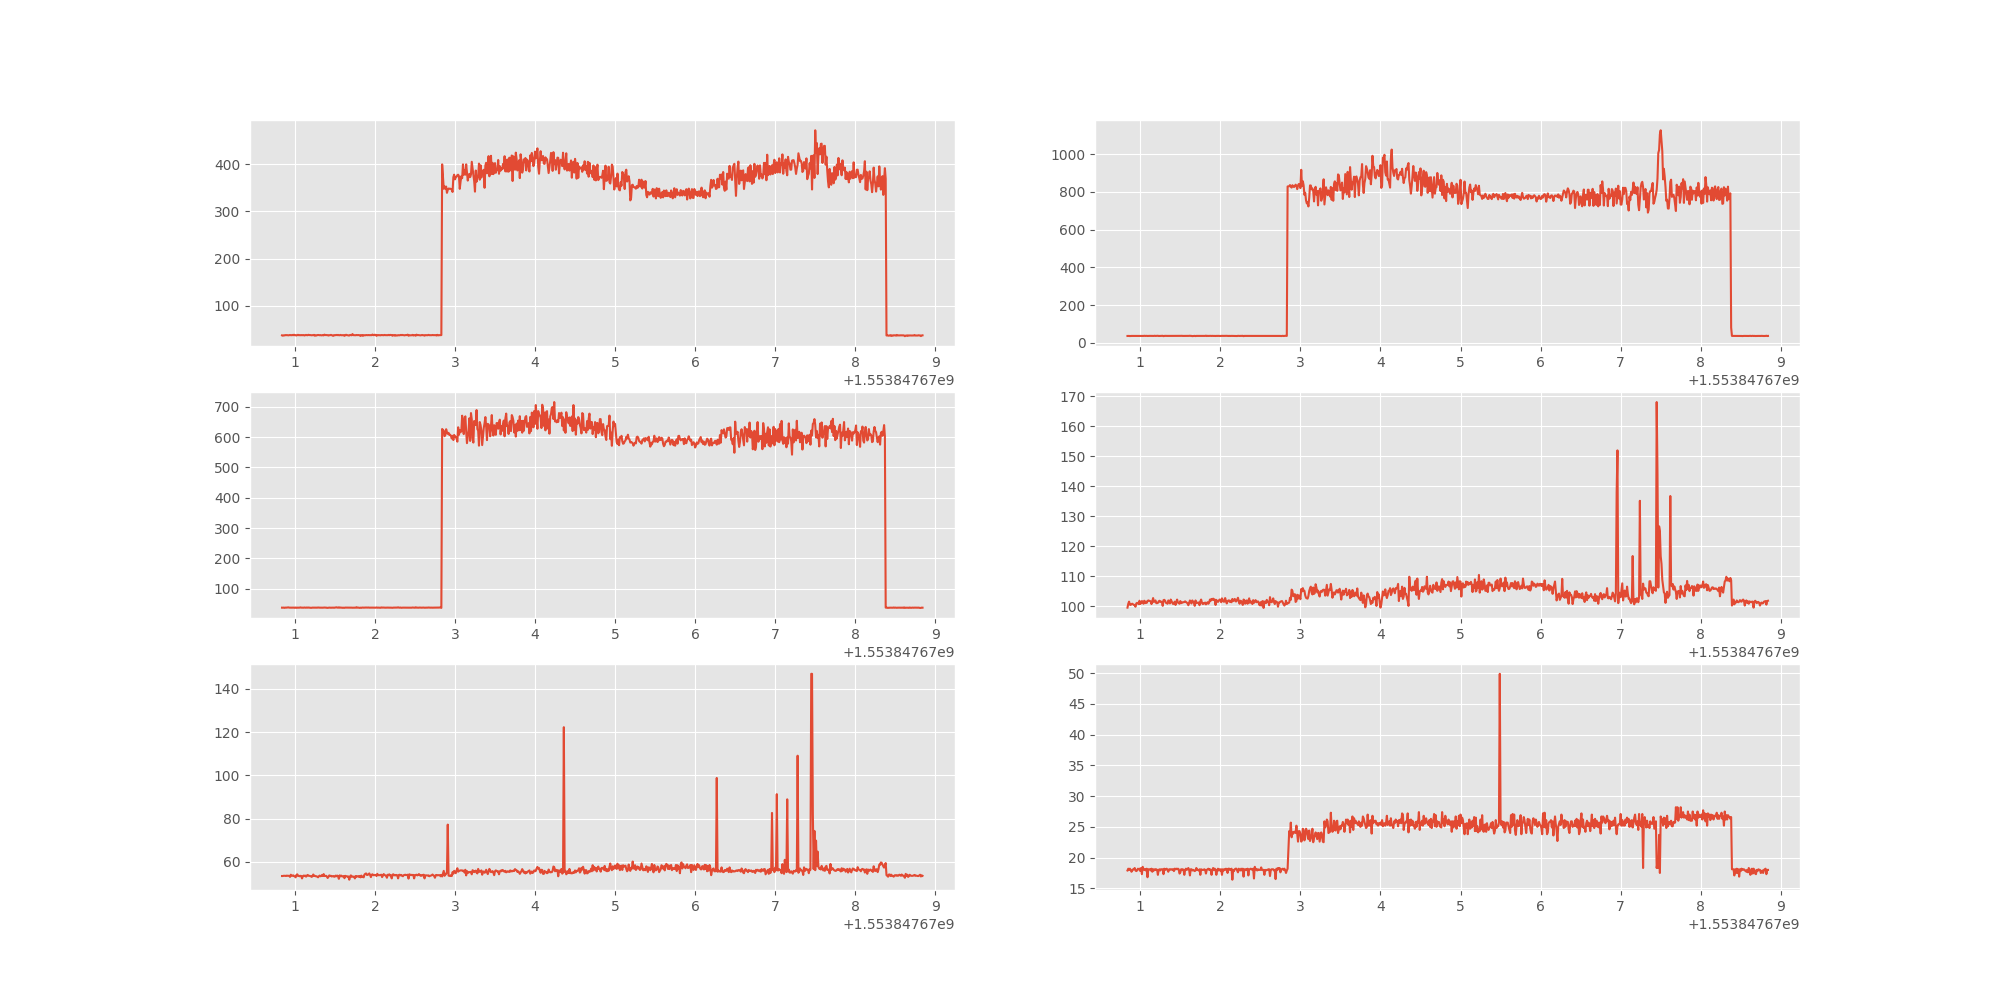
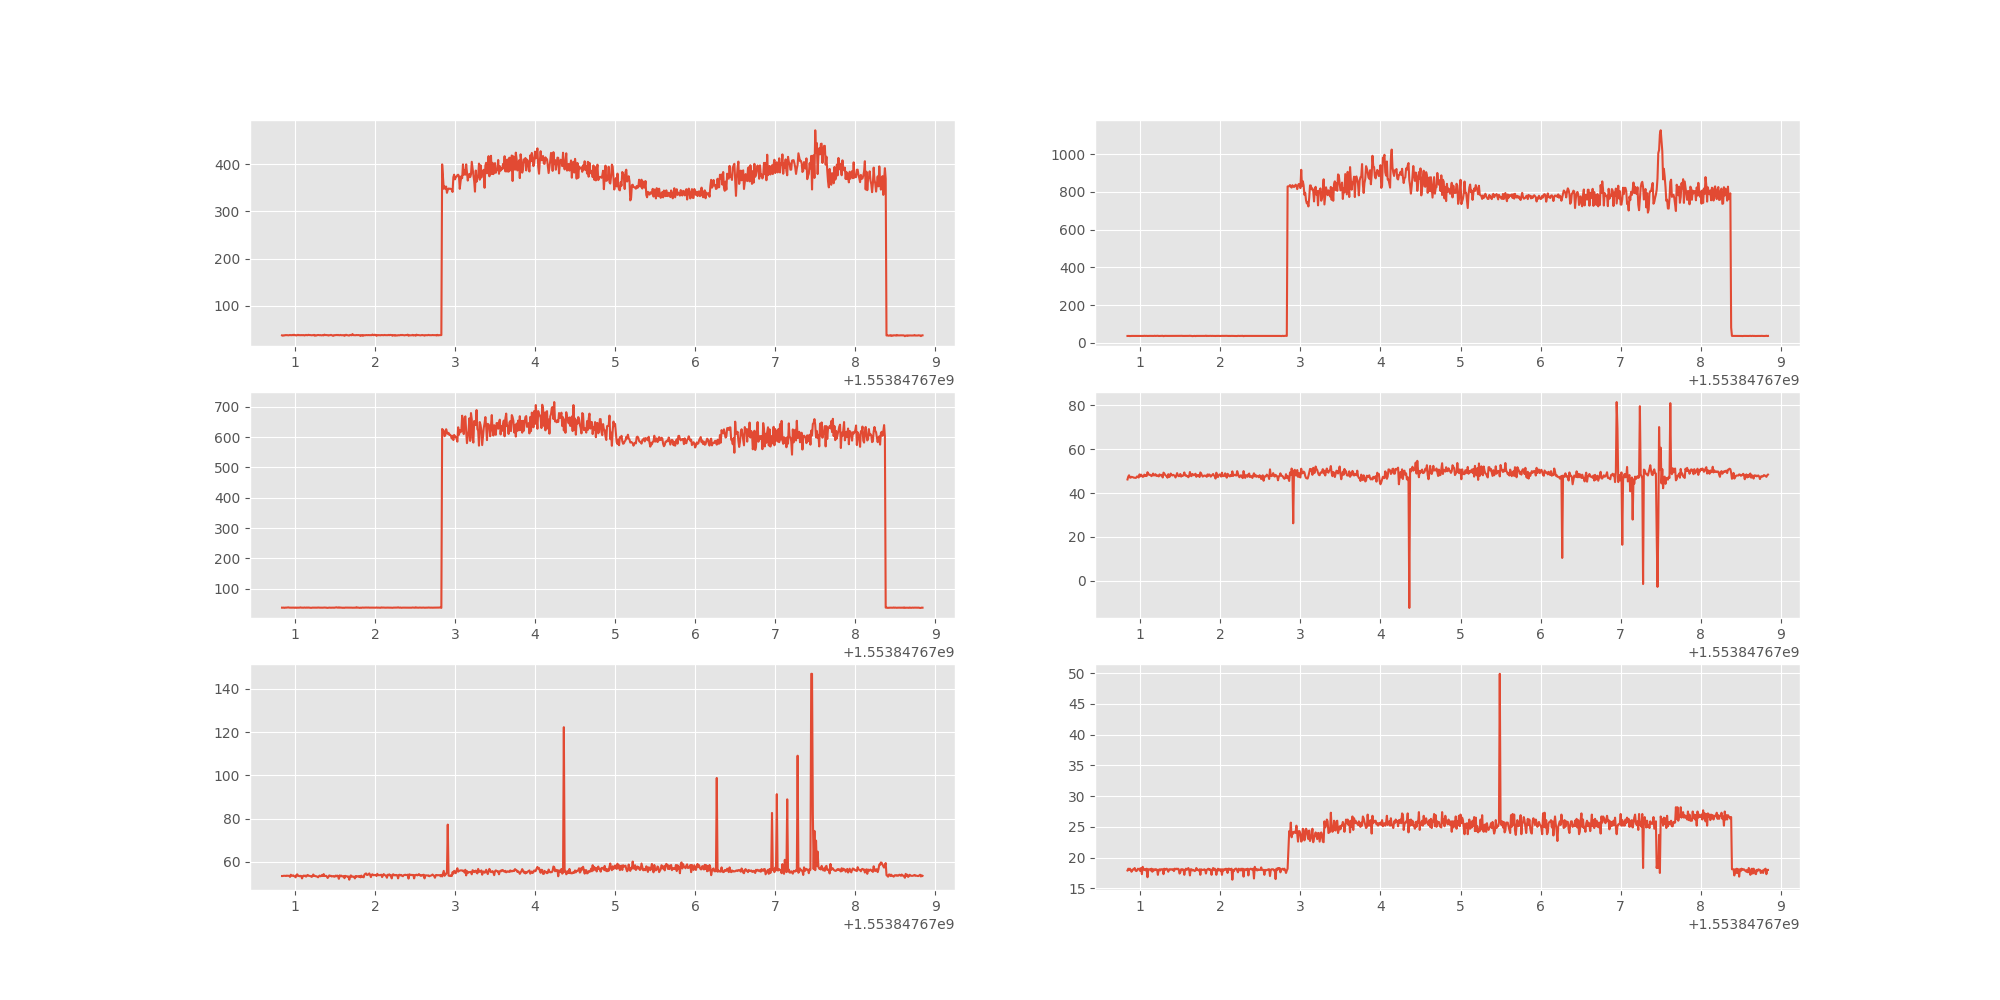
graph update

Changed region(s): [[0.527, 0.403, 0.899, 0.62], [0.527, 0.527, 0.558, 0.589]]

diff --git a/nodes/data/plot.py b/nodes/data/plot.py
@@ -4,20 +4,23 @@ import matplotlib
 import matplotlib.pyplot as plt
 
 for i in range(1,11):
-    fd1 = pd.read_csv('./sum_normal/normal'+str(i)+'.csv',index_col='timestamp')
-    fd2 = pd.read_csv('./sum_collision/collision'+str(i)+'.csv',index_col='timestamp')
+    fd1 = pd.read_csv('./normal/normal'+str(i)+'.csv',index_col='timestamp')
+    fd2 = pd.read_csv('./collision/collision'+str(i)+'.csv',index_col='timestamp')
+    
+    fd = fd2
 
     plt.style.use('ggplot')
     fig = plt.figure()
     fig.suptitle('figure sample plots')
 
     fig, lst = plt.subplots(3,2,figsize=(20,10))
-    lst[0][0].plot(fd1['1'])
-    lst[0][1].plot(fd1['2'])
-    lst[1][0].plot(fd1['3'])
-    lst[1][1].plot(fd1['4'])
-    lst[2][0].plot(fd1['5'])
-    lst[2][1].plot(fd1['6'])
+    lst[0][0].plot(fd['1'])
+    lst[0][1].plot(fd['2'])
+    lst[1][0].plot(fd['3'])
+    lst[1][1].plot(fd['4'])
+    lst[2][0].plot(fd['5'])
+    lst[2][1].plot(fd['6'])
 
     #plt.show()
-    plt.savefig('./graph/normal_graph'+str(i)+'.png')
+    plt.savefig('./dataAnalysis/graph/collision_graph'+str(i)+'.png')
+    #plt.savefig('./dataAnalysis/graph/normal_graph'+str(i)+'.png')
